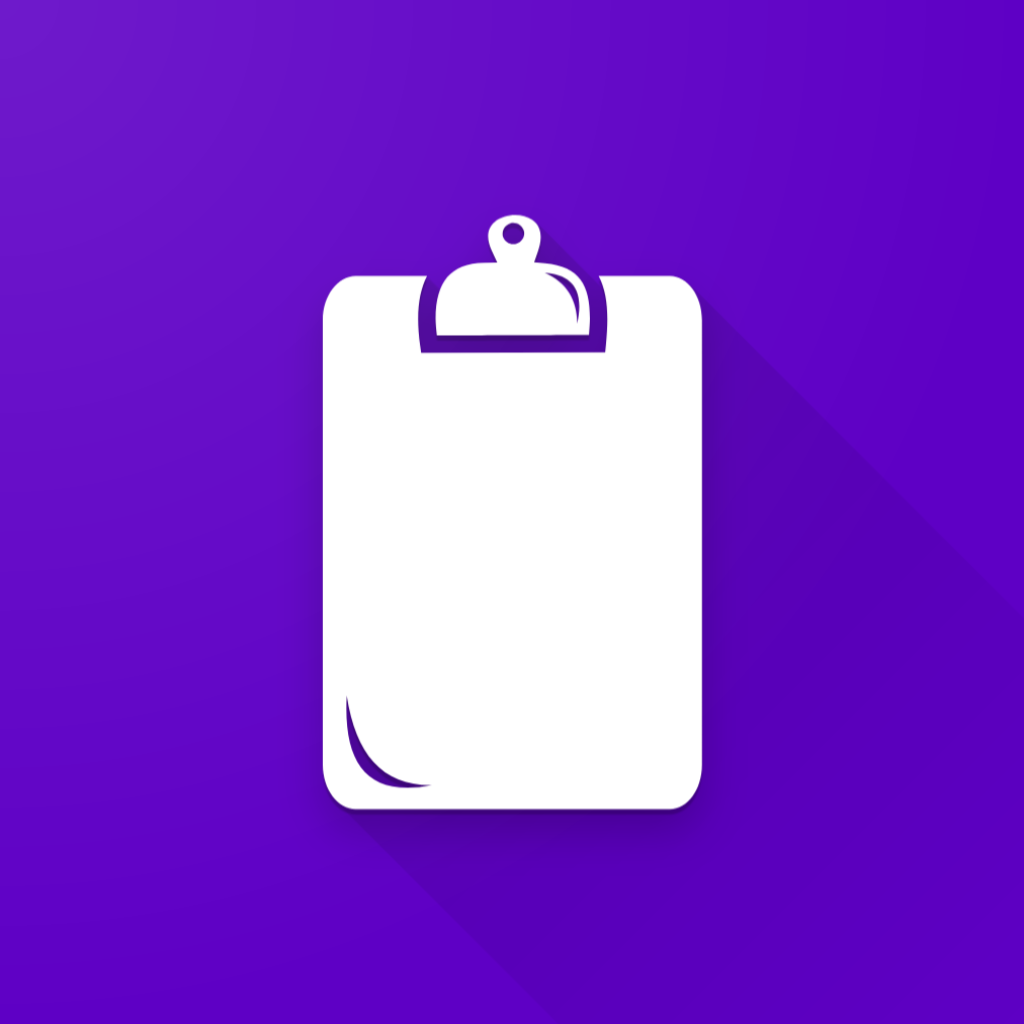
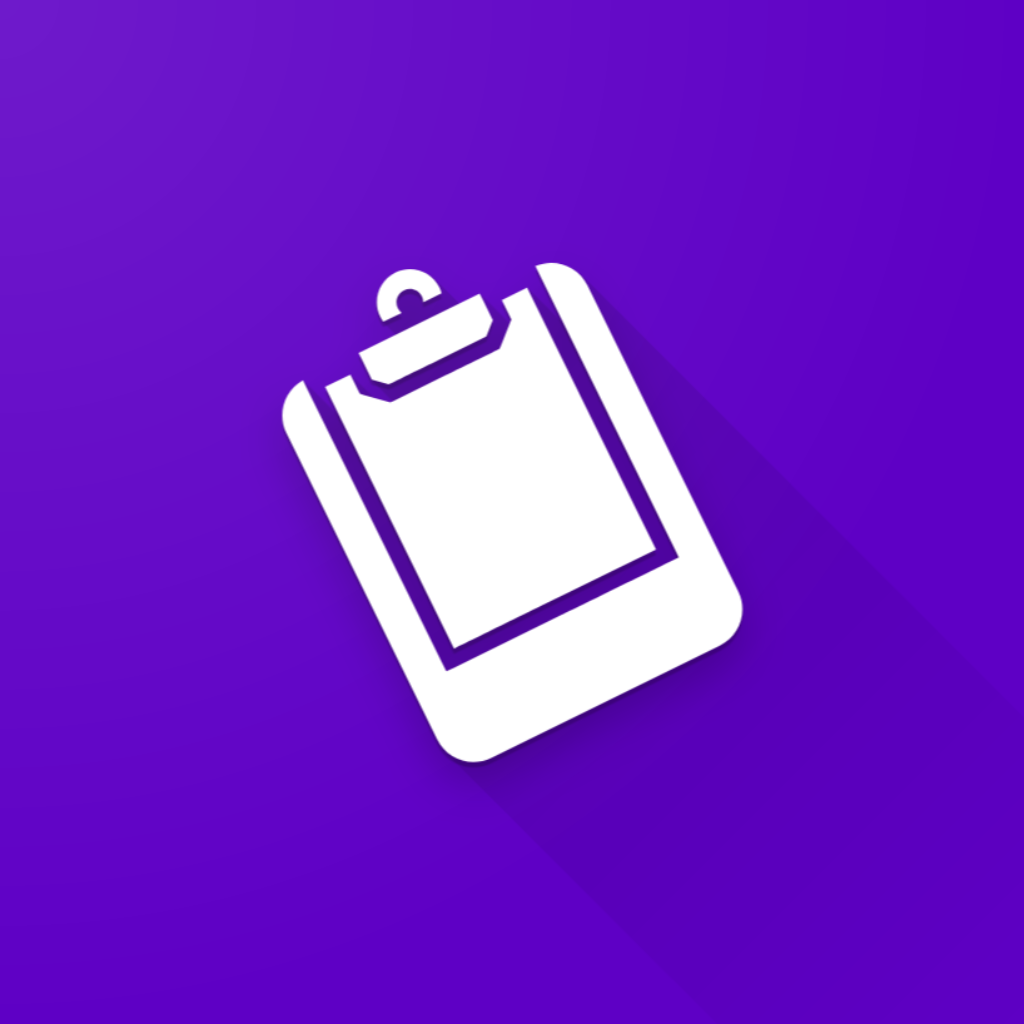
release v1.3.0
-updated logo
-updated apk

Changed region(s): [[0.25, 0.1875, 0.75, 0.8438]]

diff --git a/README.md b/README.md
@@ -1,4 +1,4 @@
-## Note Space <img src="/assets/images/logo.png" alt="Preview" width="50" />
+## Note Space
 
 Note Space is a Flutter Application I developed for My University Project :computer:
 
@@ -14,7 +14,7 @@ Note Space is a Flutter Application I developed for My University Project :compu
 
 ## Downloads
 
-**Android:** [APK](https://github.com/kushenthimira/notespace/releases/download/v1.0/Android.apk)
+**Android:** [APK](https://github.com/kushenthimira/notespace/releases/download/v1.3.0/notespace.apk)
 
 ## Contact Me
 
